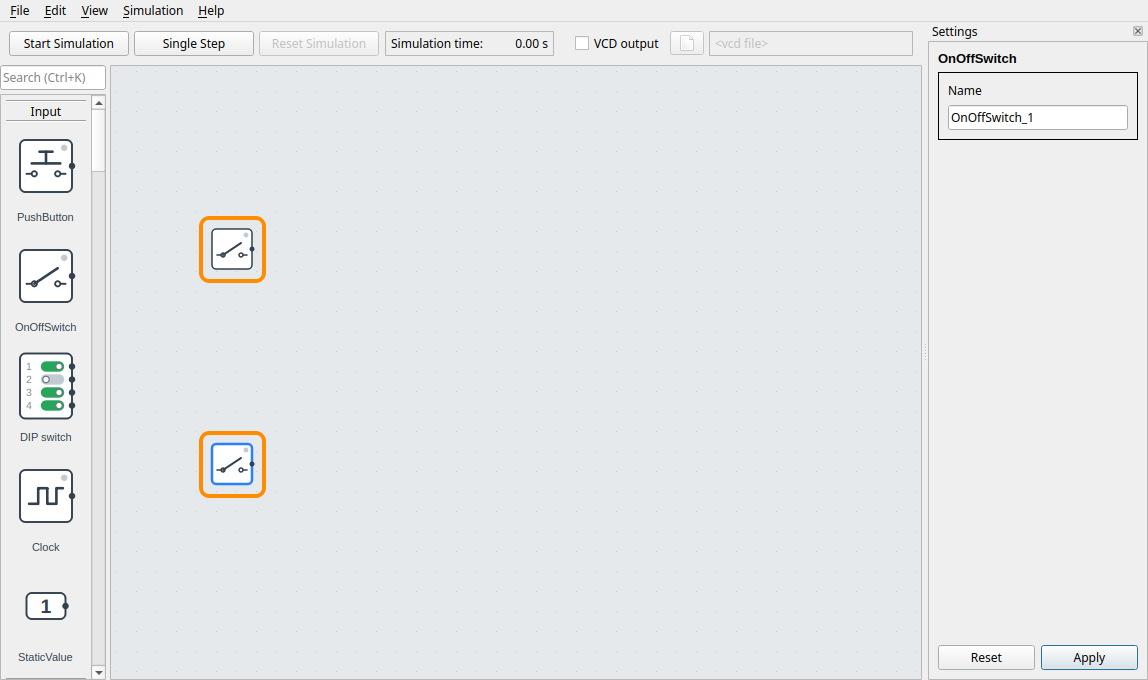
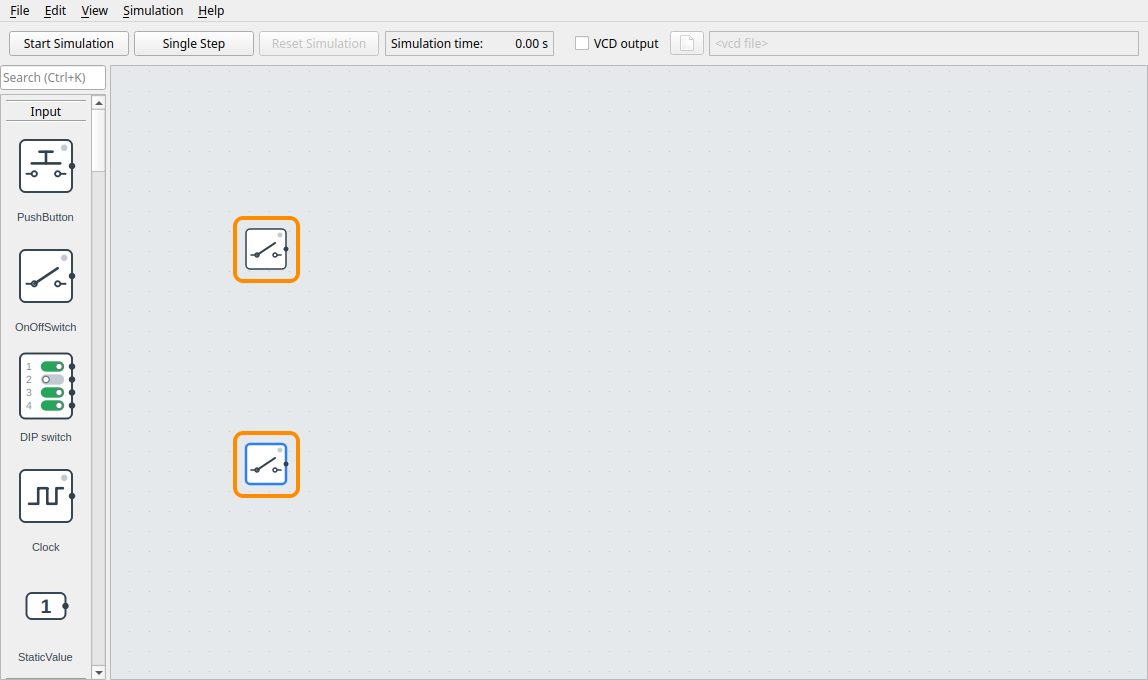
Hide the settings pane until the user shows it
The pane took a big part of the window from the first start, also for
users who don't need it. F4 or Settings in a component's context menu
shows it, and that is remembered. It uses a new settings key, the old one
says shown in every installation.

diff --git a/src/digsim/app/gui/_main_window.py b/src/digsim/app/gui/_main_window.py
@@ -48,8 +48,10 @@ from ._utils import are_you_sure_destroy_circuit
 from ._warning_dialog import WarningDialog
 
 
-# The setting that remembers if the settings pane is shown
-SETTINGS_PANE_KEY = "window/settings_pane"
+# The setting that remembers if the settings pane is shown, it is hidden until the user
+# shows it. The old key has "shown" in every installation from when it was shown at first.
+SETTINGS_PANE_KEY = "window/settings_pane_shown"
+OLD_SETTINGS_PANE_KEY = "window/settings_pane"
 # The setting with the theme, see THEMES
 THEME_KEY = "window/theme"
 
@@ -194,7 +196,9 @@ class MainWindow(QMainWindow):
     def _add_settings_pane(self) -> None:
         """
         The settings pane, to the right of the circuit: the settings of the selected
-        component. View > Settings Pane (F4) shows and hides it, and that is remembered.
+        component. It is hidden until View > Settings Pane (F4) or Settings in the context
+        menu of a component shows it, and View > Settings Pane hides it again. That is
+        remembered.
         """
         self.settings_pane = ComponentSettingsPane(self)
         scroll = QScrollArea(self)
@@ -220,7 +224,8 @@ class MainWindow(QMainWindow):
         action.setShortcut(QKeySequence("F4"))
         self.addAction(action)
         self._menu_bar.add_pane_action(action)
-        shown = MenuBar.settings().value(SETTINGS_PANE_KEY, True, type=bool)
+        MenuBar.settings().remove(OLD_SETTINGS_PANE_KEY)
+        shown = MenuBar.settings().value(SETTINGS_PANE_KEY, False, type=bool)
         self.settings_dock.setVisible(bool(shown))
         # When the user shows or hides it, and when the window closes (it is hidden then,
         # see closeEvent())

diff --git a/tools/gui_menu_check.py b/tools/gui_menu_check.py
@@ -36,6 +36,7 @@ from PySide6.QtWidgets import (
 
 from digsim.app.gui import MainWindow
 from digsim.app.gui._circuit_area import CircuitArea
+from digsim.app.gui._main_window import SETTINGS_PANE_KEY
 from digsim.app.gui._menu_bar import MenuBar
 from digsim.app.model import AppModel
 
@@ -809,13 +810,15 @@ def test_a_given_name_follows_the_ic_a_users_name_stays(gui):
 
 
 def test_settings_pane_is_hidden_and_shown(gui):
+    # Hidden until it is shown
     action = gui.action("View", "Settings Pane")
-    assert action.isChecked()
-    gui.trigger("View", "Settings Pane")
-    assert not gui.window.settings_dock.isVisible()
-    assert MenuBar.settings().value("window/settings_pane", type=bool) is False
+    assert not action.isChecked()
     gui.trigger("View", "Settings Pane")
     assert gui.window.settings_dock.isVisible()
+    assert MenuBar.settings().value(SETTINGS_PANE_KEY, type=bool) is True
+    gui.trigger("View", "Settings Pane")
+    assert not gui.window.settings_dock.isVisible()
+    assert MenuBar.settings().value(SETTINGS_PANE_KEY, type=bool) is False
 
 
 def test_added_component_is_selected_without_a_dialog(gui):

diff --git a/docs/scripts/generate_tutorial.py b/docs/scripts/generate_tutorial.py
@@ -39,7 +39,7 @@ from digsim.app.model import AppModel
 ROOT = Path(__file__).resolve().parents[2]
 OUT = ROOT / "docs" / "images" / "tutorial"
 
-WINDOW_SIZE = (1100, 680)
+WINDOW_SIZE = (1148, 680)
 HIGHLIGHT_COLOR = QColor(255, 140, 0)
 
 
@@ -192,9 +192,10 @@ def main() -> None:
         "03_two_switches", [tutorial.object_rect(switch_a), tutorial.object_rect(switch_b)]
     )
 
-    # 4. The AND gate, it is selected: its settings are in the settings pane
+    # 4. The AND gate, it is selected: F4 shows its settings in the settings pane
     and_item = tutorial.selector_item("AND")
     and_gate = tutorial.add("AND", 0.45, 0.47)
+    tutorial.window.show_settings_pane()
     spin(200)
     save(tutorial.window.settings_dock.grab(), "04_and_settings")
     tutorial.shot(

diff --git a/docs/scripts/generate_new_verilog_tutorial.py b/docs/scripts/generate_new_verilog_tutorial.py
@@ -54,7 +54,7 @@ from digsim.app.settings._component_settings import ComponentSettingsDialog
 ROOT = Path(__file__).resolve().parents[2]
 OUT = ROOT / "docs" / "images" / "new_verilog"
 
-WINDOW_SIZE = (1100, 680)
+WINDOW_SIZE = (1148, 680)
 EDITOR_SIZE = (860, 560)
 HIGHLIGHT_COLOR = QColor(255, 140, 0)
 
@@ -245,6 +245,7 @@ def make_screenshots(guide: Guide) -> None:
     handle_dialogs([open_or_new])
     center = guide.area.mapToScene(guide.area.viewport().rect().center())
     yosys = guide.add("YosysComponent", center)
+    window.show_settings_pane()
     spin(500)
     # It is selected, its settings are in the settings pane
     save(window.settings_dock.grab(), "03_settings")

diff --git a/docs/scripts/generate_gui_images.py b/docs/scripts/generate_gui_images.py
@@ -234,13 +234,9 @@ def window_screenshots(model: AppModel, window: MainWindow) -> None:
         if isinstance(component, components.OnOffSwitch):
             component.turn_on()
     spin(3000)
-    # The circuit, without the settings pane beside it
-    window.settings_dock.hide()
-    spin(200)
     area.centerOn(QPointF(700, 300))
     spin(200)
     window.grab().save(str(IMAGES / "screenshot_digsim_app.png"))
-    window.settings_dock.show()
     model.model_stop()
     spin(300)
 

diff --git a/docs/scripts/generate_verilog_tutorial.py b/docs/scripts/generate_verilog_tutorial.py
@@ -44,7 +44,7 @@ from digsim.app.model import AppModel
 ROOT = Path(__file__).resolve().parents[2]
 OUT = ROOT / "docs" / "images" / "verilog_tutorial"
 
-WINDOW_SIZE = (1100, 680)
+WINDOW_SIZE = (1148, 680)
 EDITOR_SIZE = (860, 600)
 HIGHLIGHT_COLOR = QColor(255, 140, 0)
 

diff --git a/docs/gui.md b/docs/gui.md
@@ -82,10 +82,10 @@ with the **Del** key or **Edit > Delete**.
 
 ### Settings pane
 
-The **settings pane**, to the right of the circuit area, shows the options of the
-selected component: the number of inputs of a gate, the width of a bus, the color of an
-LED, the file of a Yosys component. Change them and click **Apply**, **Reset** shows the
-options the component has again. Each Apply is one step of Undo.
+The **settings pane**, to the right of the circuit area when it is shown, shows the
+options of the selected component: the number of inputs of a gate, the width of a bus,
+the color of an LED, the file of a Yosys component. Change them and click **Apply**,
+**Reset** shows the options the component has again. Each Apply is one step of Undo.
 
 Some options can be changed in the component as it is, like the color of an LED. The
 others change its ports, like the number of inputs of a gate: the component is built
@@ -99,7 +99,9 @@ shortcut keep up with it. It can't be the name of another component, or have spa
 dots. A component that has the name it got, like `ttl_74161` for a 74161 IC, gets the name
 of what it is when it changes to another IC or file. A name you gave it stays.
 
-**View > Settings Pane** (**F4**) hides and shows the pane, and DigSim remembers it.
+The pane is hidden until you show it: **View > Settings Pane** (**F4**) shows and hides
+it, and **Settings** in the context menu of a component shows it. DigSim remembers if it
+is shown.
 
 ### Oscillating circuits
 

diff --git a/docs/first-circuit.md b/docs/first-circuit.md
@@ -58,8 +58,9 @@ press **Del**. If you make a mistake, **Ctrl+Z** undoes it.
 Scroll down to the **Gates** group and drag an **AND** gate into the circuit area,
 between the switches and the right edge.
 
-The new gate is selected, and its settings are in the settings pane, to the right of the
-circuit area. For the AND gate, that is the number of inputs. Keep **2**. To change it,
+The new gate is selected. Press **F4** (or choose **View > Settings Pane**) to show the
+settings pane, to the right of the circuit area, with its settings. DigSim keeps it shown
+until you hide it. For the AND gate, that is the number of inputs. Keep **2**. To change it,
 move the slider and click **Apply**.
 
 ![The settings of the AND gate in the settings pane](images/tutorial/04_and_settings.png)

diff --git a/CHANGELOG.md b/CHANGELOG.md
@@ -1,5 +1,8 @@
 # CHANGELOG
 
+## vx.x.x
+ - GUI: the settings pane is hidden until you show it, with View > Settings Pane (F4) or Settings in the context menu of a component. DigSim remembers it once it is shown.
+
 ## v1.9.0
  - A native engine: with digsim-native installed (a dependency on Linux x86_64 and arm64, Windows x64 and macOS), the gates of Yosys components and ICs are simulated in Rust, with the same results, about 3 to 4 times faster for the 6502 example. DIGSIM_ENGINE=python simulates in Python
  - GUI: Simulate in hidden tabs, in the application settings (off by default): the simulations go on in the tabs that aren't shown, without sound, and a tab that simulates has a ▶ in front of its name

diff --git a/docs/new-verilog.md b/docs/new-verilog.md
@@ -48,7 +48,8 @@ want to use it as it is.
 ## 3. The settings of the component
 
 The new component is selected, and its settings are in the settings pane, to the right of
-the circuit area. Keep both boxes unchecked.
+the circuit area. If the pane isn't shown, press **F4** (or choose **View > Settings
+Pane**). Keep both boxes unchecked.
 
 ![The settings of a Yosys component](images/new_verilog/03_settings.png)
 
